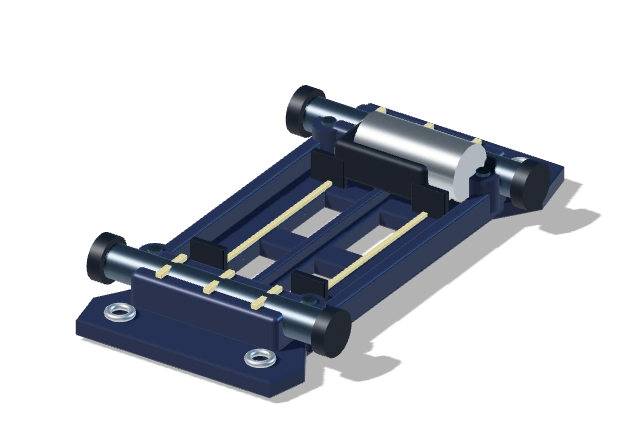
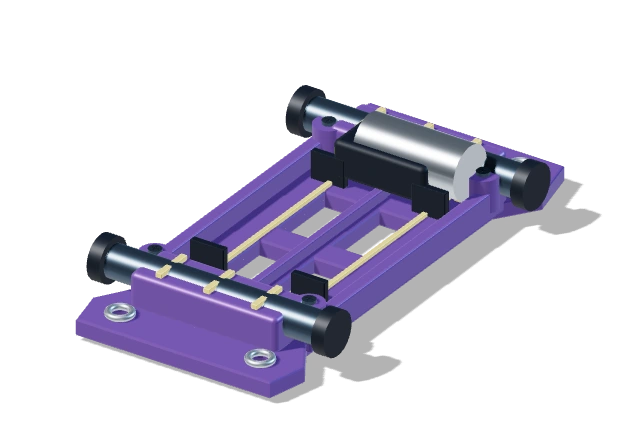
Complete the Sovereign series with top base stats and terrain-specific tuning

diff --git a/src/data/world.ts b/src/data/world.ts
@@ -1,3 +1,4 @@
+import {sovereignPartIds} from './sovereignParts';
 import { starterShop, type ShopStock } from './progression';
 import type { CircuitId } from './circuit';
 
@@ -8,7 +9,7 @@ export interface ModelShop extends ShopStock { id:ShopId; owner:string; circuitI
 export const modelShops:Record<ShopId,ModelShop>={
   akatsuki:{id:'akatsuki',name:'あかつき模型店',maxPartLevel:10,owner:'暁堂 司',circuitId:'forge',stage:6,color:0xb56860,welcome:'緑川の入賞、おめでとう！ ここには怜・岳・斗和・昊也のレジェンド4人も試走に来ている。最上位パーツを22種入荷したぞ。縦ループ、横スパイラル、砂地、坂、ジャンプを制する組み合わせを探そう。勝敗に関係なく、途中で戻らず5回レースの結果まで走れば、天頂決戦・ゼニス・クラウンの出場権を渡す。'},
   yuunagi:{id:'yuunagi',name:'ゆうなぎ模型店',maxPartLevel:6,owner:'夕凪 慎吾',circuitId:'trail',stage:5,color:0x8074a8,welcome:'星空テクニカル杯の入賞、おめでとう！ 新作のリアウイング・スライドダンパー、セラミックローラー、低い二段ローラー、サージモーター、フローティングホイール、低反発タイヤを揃えたよ。ここはスタートとゴールが別の一本道タイムアタック。約172mの高架スパイラル・ジャンプ台・ロングストレートを越え、公式タイム40秒以内で完走すると第4公式大会・緑川グランプリの出場権を授けるよ。何度でもセッティングを変えて挑戦できる。'},
-  atelier:{id:'atelier',name:'星霧模型工房',maxPartLevel:10,exclusiveParts:['motor-sovereign','chassis-sovereign'],owner:'星野 玄一',circuitId:'leaf',stage:1,color:0x77649c,welcome:'ようこそ、星霧模型工房へ。ここは最初から入れる特別な販売専門店。最高額の星皇モーターと星皇シャーシは各25万円、2つで50万円だ。わかばの優勝賞金2500円なら約200勝分。モーターは慣らし不要で摩耗せず、シャーシは駆動・旋回・制振を大幅に強化する。多くのレースで圧倒的に有利になるが、最終公式大会は、速さに加えて旋回と着地の安定も試されるぞ。通常の改造を楽しむ人は、こもれびから挑戦してごらん。'},
+  atelier:{id:'atelier',name:'星霧模型工房',maxPartLevel:10,exclusiveParts:sovereignPartIds,owner:'星野 玄一',circuitId:'leaf',stage:1,color:0x77649c,welcome:'ようこそ、星霧模型工房へ。星皇シリーズは全11種類・13品、各25万円。全品325万円で、ローラー1セットを前中後に共用できる。モーター・電池は消耗なし。出力・軽さ・効率・旋回は最上位だが、硬いスリックは砂地に弱い。悪路タイヤやフレックスシャーシ、比率の違うギアとの混成で、コースに合わせてさらに速い構成を探そう。'},
   wakaba:{id:'wakaba',name:'わかば模型店',maxPartLevel:5,owner:'若松 修一',circuitId:'grove',stage:4,color:0x709250,welcome:'公式杯の入賞、おめでとう。ここは坂・ジャンプ・1周半の高架スパイラルがある店だ。ライバルも上位装備を使うよ。上位のスイフトトルク、K4シャーシ、ハイグリップタイヤと新作ホイールを揃えたよ。4:1ギアと駆動サポートも組み合わせてごらん。ここで優勝すれば、第3公式大会の星空テクニカル杯の出場権がもらえるよ。'},
   komorebi:{...starterShop,id:'komorebi',owner:'小野寺 春夫',circuitId:'leaf',stage:1,color:0x528672,welcome:'いらっしゃい、湊くん。完走賞を貯めてパーツを買い足そう！初優勝すると、全国で活躍する兄弟が訪ねてくるらしいよ。'},
   aozora:{id:'aozora',name:'あおぞら模型店',maxPartLevel:3,owner:'青井 晴彦',circuitId:'wind',stage:2,color:0x497eaf,welcome:'春夫さんから話は聞いているよ。ようこそ、あおぞら模型店へ！連続コーナーでは加速と安定性の両立が大切だ。低重心シャーシや中空シャフト、新しいモーターを試してごらん。'},
@@ -63,7 +64,7 @@ export function venueMessage(venue:TownVenue){
   if(venue.id==='akatsuki')return '緑川グランプリで2位以内に入ると開放。最上位パーツ22種と強豪たちの試走コース。結果まで5回走れば最終大会の出場権。';
   if(venue.id==='yuunagi')return '星空テクニカル杯で3位以内に入ると開放。一本道の高架スパイラルとジャンプ台を40秒以内で完走すると、第4公式大会・緑川グランプリの出場権を獲得できます。';
   if(venue.id==='stadium-10')return '第4公式大会・緑川グランプリ。ゆうなぎ模型店の一本道タイムアタックを40秒以内で完走すると出場権を獲得できます。黒岩と先輩の橘 斗和、モブ2人との一本道決勝。2位以内であかつき模型店が開放、3位以下はゲームオーバーです。';
-  if(venue.id==='atelier')return '最初から入れる特別な販売専門店。星皇モーターと星皇シャーシを各25万円で販売。2つで50万円、わかば優勝約200回分の究極パーツです。';
+  if(venue.id==='atelier')return '最初から入れる特別な販売専門店。星皇シリーズ全11種類・13品を各25万円で販売。最上位の基礎性能と、路面に合わせた混成セッティングを楽しめます。';
   if(venue.id==='stadium-9')return '全4大会の第3公式大会・星空テクニカル杯。若葉公式杯で総合優勝するか、わかば模型店で優勝すると出場できます。連続コーナーを約2分走るコースです。';
   if(venue.id==='wakaba')return '若葉公式杯で総合3位以内に入賞すると入店できます。連続コーナーで長距離のセッティングを磨こう。';
   if(venue.id==='stadium-5')return '若葉公式ダート杯はひなた模型店で1位になると出場できます。森野 陸・黒岩 豪・モブ2人との5台レース。総合3位以内でわかば模型店、総合優勝で第3公式大会への出場権を獲得します。';

diff --git a/src/data/partGuidance.ts b/src/data/partGuidance.ts
@@ -1,9 +1,11 @@
+import {isSovereignPart} from './sovereignParts';
 import {zenithParts} from './zenithParts';
 import type { Part } from './parts';
 export function partGuidance(part:Part):{
 use:string;tradeoff:string}{
  if(part.id.startsWith('motor-mechanic-'))return {use:'メカニックマンからの専用モーター。熟練度の上昇で自動強化され、外している間も成長します。装着中ならレースを終えて戻ったときに反映されます。',tradeoff:'消耗なし・慣らし不要。最高段階はレジェンドを含む熟練度ランキング単独1位で解放。モーター以外のタイヤ・ギア・車体のセッティングも必要です。'};
  const s=part.specs;
+ if(isSovereignPart(part.id))return {use:part.description,tradeoff:part.category==='motor'?'慣らし不要・消耗なし。強い出力に合わせて安定性と接地も整えよう。':part.category==='battery'?'残量は100%固定。出力の高さとコースへの相性は、タイヤ・ギア・車体と合わせて考えよう。':'各25万円。単体の基礎性能は最上位でも、ギア比・砂地の追従・合計制振90%の上限に合わせて他シリーズを混ぜると速くなる場合があります。'};
  if(zenithParts.some(p=>p.id===part.id)){
  const use=part.category==='motor'?(part.id==='motor-tempest'?'あかつきと天頂決戦の高速型。5.2:1ギア・デューンシャーシ・アペックスタイヤで縦ループの力と砂地の接地を補います。':part.id==='motor-titan'?'あかつきと天頂決戦の高トルク型。4:1ギア・エクリプスシャーシ・ハイブリッドタイヤなどで高速も両立できます。':'あかつきと天頂決戦の万能型。4.2:1ギア・ホライゾンシャーシ・ハイブリッドタイヤを軸に、縦横ループ・砂地・着地を両立します。'):part.category==='roller'?'前・中・後へ1セットで設定できます。クラウンスライドのローラーはリヤ欄で選び、速度を残す前中と姿勢を支える後を使い分けます。':part.category==='accessory'?'その他①〜③の異なる種類を組み合わせ、縦横回転後の姿勢・砂地の接地・ジャンプの着地を支えます。スライドのローラーはリヤ欄で選びます。':'あかつきの試走と最長の天頂決戦向け。'+part.description;
  const tradeoff=part.category==='motor'?'新品は約60秒の慣らしが必要。長距離レースでは摩耗も進みます。単品の出力だけでなく、ギア・砂地の追従・着地の制振も整えましょう。':part.category==='battery'?'走行で消耗します。慣らしでは残量は減りません。同じ種類を再購入すると1個の新品へ交換します。':part.category==='accessory'?'同じ種類は1個まで、重複装着できません。重量も加算されるので3枠の配分を考えましょう。':'単品で全難所を解決するものではありません。高速型・トルク型・悪路型の役割と重量を比べ、他のパーツと組み合わせましょう。';
@@ -17,8 +19,6 @@ use:string;tradeoff:string}{
  if(part.id==='wheel-floating')return {use:'スパイラルの内外輪差による抵抗を低減し、回転と再加速を保ちます。',tradeoff:'カーボンフェザーより重くなります。タイヤのグリップや制振は別に整えよう。'};
  if(part.id==='tire-landing')return {use:'舗装のグリップと、ジャンプ着地の跳ねの吸収を両立。スライドダンパーと効果を合わせられます。',tradeoff:'飛距離を増やすタイヤではありません。飛距離不足ならモーターの状態・電池・ギア比も確認。悪路専用ではありません。'};
 
- if(part.id==='motor-sovereign')return {use:'星皇シャーシと組み合わせて圧倒的な加速と速度を得る特別なモーター。新品のまま最高状態で、慣らしも交換も不要です。',tradeoff:'価格は25万円。モーター単体では安定性を強化できません。電池は消耗するため残量を確認しよう。'};
- if(part.id==='chassis-sovereign')return {use:'星皇モーターを支える究極級の土台。低重量・高い駆動効率に加え、旋回とジャンプ着地、悪路の制振を大幅に強化します。',tradeoff:'価格は25万円。2種類を揃えると50万円、わかばの優勝約200回分です。最終公式大会は準備中です。'};
  if(part.id==='motor-turn')return {use:'わかば・星空杯の連続コーナーで、減速後の再加速を強化。4:1ギアと高グリップの足回りを合わせよう。',tradeoff:'出力が高いのでモーター単体の交換ではコースアウトする場合があります。約60秒の慣らしと安定性の強化を忘れずに。'};
  if(part.id==='tire-turn')return {use:'舗装の連続コーナーで横滑りとコースアウトを抑えたいときに。K4シャーシ・スタビライザーと併用できます。',tradeoff:'悪路への追従性はブロックタイヤほど高くありません。ダートでは悪路用へ交換しよう。'};
  if(part.id==='accessory-none')return {use:'その枠の補助パーツを外します。',tradeoff:'軽くなりますが、そのパーツの安定性・制振・駆動補助は失われます。'};

diff --git a/src/game/sovereign.test.ts b/src/game/sovereign.test.ts
@@ -1,0 +1,43 @@
+import {test} from 'node:test';
+import assert from 'node:assert/strict';
+import {parts,categories} from '../data/parts';
+import {sovereignPartIds,sovereignEquipment,isSovereignPart} from '../data/sovereignParts';
+import {equipmentSlots,type Equipment} from '../data/machine';
+import {modelShops} from '../data/world';
+import {isStocked} from '../data/progression';
+import {getCircuitTrack,type CircuitId} from '../data/circuit';
+import {machinePerformance,createDrivingState,startDriving,stepDriving} from './driving';
+import {batteryCharge,motorFactor} from './condition';
+import {useGame} from './store';
+import {snapshotGame,decodeSave} from './saveData';
+import {loadSavedGame} from './autoSave';
+import {partGuidance} from '../data/partGuidance';
+import {searchLibrary} from '../data/library';
+function drive(id:CircuitId,e=sovereignEquipment){const t=getCircuitTrack(id),p=machinePerformance(e,{motorSeconds:60,batterySeconds:0});let d=startDriving(createDrivingState());for(let i=0;i<120*240&&d.status==='running';i++)d=stepDriving(d,p,0,2,t.circuit.surface,t);assert.equal(d.status,'finished',id);return d.time;}
+test('星皇は11カテゴリ・13品、工房専売・各25万円。全装備枠を異なる補助3品と共用ローラーで満たす',()=>{
+ const list=parts.filter(p=>isSovereignPart(p.id));assert.equal(list.length,13);assert.equal(new Set(list.map(p=>p.category)).size,Object.keys(categories).length);assert.equal(new Set(sovereignPartIds).size,13);
+ for(const p of list){assert.equal(p.price,250000);assert.equal(p.level,10);assert.ok(partGuidance(p).use.includes('星皇'));assert.ok(searchLibrary('all','星皇').some(r=>r.id===p.id));for(const shop of Object.values(modelShops))assert.equal(isStocked(p,shop),shop.id==='atelier');}
+ for(const [slot,id] of Object.entries(sovereignEquipment))assert.equal(parts.find(p=>p.id===id)!.category,equipmentSlots[slot as keyof Equipment].category);
+ assert.equal(new Set([sovereignEquipment.accessory,sovereignEquipment.accessory2,sovereignEquipment.accessory3]).size,3);
+});
+test('回転数・トルク・効率・軽量性などの主要性能は各種の最上位。ギア比と悪路追従は選び分ける',()=>{
+ for(const [id,key,better] of [['motor-sovereign','rpm','max'],['motor-sovereign','torque','max'],['chassis-sovereign','efficiency','max'],['chassis-sovereign','stability','max'],['chassis-sovereign','weight','min'],['body-sovereign','drag','min'],['body-sovereign','stability','max'],['body-sovereign','weight','min'],['battery-sovereign','power','max'],['battery-sovereign','weight','min'],['tire-sovereign','grip','max'],['tire-sovereign','weight','min'],['wheel-sovereign','cornerDrag','min'],['roller-sovereign','friction','min'],['roller-sovereign','stability','max'],['shaft-sovereign','weight','min'],['terminal-sovereign','efficiency','max'],['gear-sovereign','weight','min'],['accessory-sovereign-drive','efficiency','max'],['accessory-sovereign-gyro','stability','max'],['accessory-sovereign-damper','damping','max']] as const){
+  const p=parts.find(p=>p.id===id)!,others=parts.filter(r=>r.category===p.category&&!isSovereignPart(r.id)&&r.specs[key]!==undefined).map(r=>r.specs[key]);assert.ok(better==='max'?p.specs[key]>=Math.max(...others):p.specs[key]<=Math.min(...others),`${id}:${key}`);
+ }
+ assert.equal(motorFactor(100000,'motor-sovereign'),1);assert.equal(batteryCharge('battery-sovereign',100000),1);
+});
+test('星皇一式は全コース完走し、悪路タイヤ混成はダートで速く、舗装では星皇スリックが速い',()=>{
+ for(const id of ['leaf','wind','sun','grove','comet','trail','grandprix','forge','zenith'] as const)drive(id);
+ const mixed={...sovereignEquipment,tire:'tire-dunepro'};
+ const dirt=drive('sun'),mixedDirt=drive('sun',mixed),paved=drive('wind'),mixedPaved=drive('wind',mixed);
+ assert.ok(mixedDirt<dirt*.97,`${mixedDirt} < ${dirt}`);assert.ok(paved<mixedPaved*.95,`${paved} < ${mixedPaved}`);
+ // Different ratios still matter even with the strongest lightweight gear.
+ assert.ok(drive('wind',{...sovereignEquipment,gear:'gear-3.5'})<paved);
+});
+test('初期から全品を購入・装着・保存再開でき、所持数と財布・主進行を維持する',async()=>{
+ const original=useGame.getState();try{
+  useGame.setState({...useGame.getInitialState(),location:'town',money:3250000,openingStep:9,tutorialStage:'done'},true);useGame.getState().enterShop('atelier');for(const id of sovereignPartIds)useGame.getState().buy(id);assert.equal(useGame.getState().money,0);
+  for(const [slot,id] of Object.entries(sovereignEquipment))useGame.getState().equip(id,slot as keyof Equipment);assert.deepEqual(useGame.getState().equipment,sovereignEquipment);for(const id of sovereignPartIds)assert.equal(useGame.getState().inventory[id],1);
+  const save=decodeSave({version:1,savedAt:123,game:snapshotGame(useGame.getState())});await loadSavedGame({read:async()=>save,write:async()=>{}});assert.deepEqual(useGame.getState().equipment,sovereignEquipment);assert.equal(useGame.getState().money,0);assert.equal(useGame.getState().legendRaceCompleted,false);assert.equal(useGame.getState().finalQualified,false);
+ }finally{useGame.setState(original,true);}
+});

diff --git a/src/data/sovereignParts.ts b/src/data/sovereignParts.ts
@@ -1,0 +1,22 @@
+import type {Equipment} from './machine';
+import type {Category} from './parts';
+const part=(id:string,category:Category,name:string,description:string,specs:Record<string,number>,performance:string)=>({id,category,name,price:250000,description:`星霧模型工房限定・星皇シリーズ。${description}`,specs,performance});
+export const sovereignParts=[
+ part('motor-sovereign','motor','星皇オーバードライブモーター','最高回転数と最大トルクを両立。慣らし不要・摩耗なし。強い出力を路面へ伝えるには、タイヤとギアの選択も大切。',{rpm:32000,torque:12,weight:17,wear:0},'32,000 rpm / 12.0 mN·m / 17 g / 消耗なし'),
+ part('chassis-sovereign','chassis','星皇ゼロリミットシャーシ','最軽量・最高効率・最高安定の高剛性シャーシ。舗装と立体コースに強いが、深い砂ではデューンの追従性を組み合わせる余地がある。',{weight:13,efficiency:1.3,stability:4.3,damping:.6,roughGrip:1.3,roughResistance:.55,compliance:1.4},'13 g / 駆動効率×1.30 / 安定性×4.30 / 制振60%'),
+ part('battery-sovereign','battery','星皇インフィニットセル','最高出力・最軽量の電池2本。残量は減らず、長距離でも出力を維持する。',{weight:36,power:1.16,endurance:700,consumption:0},'2本36 g / 出力×1.16 / 残量100%固定'),
+ part('gear-sovereign','gear','星皇マイクロドライブ 4:1','最軽量の精密ギア。4:1は高速と駆動力の両立用。急坂は5.2:1、高速区間は3.5:1も試し、モーターと路面に合わせて選ぼう。',{ratio:4,weight:1},'減速比4:1 / 1 g / 比率は万能ではない'),
+ part('tire-sovereign','tire','星皇プラチナ・スリック','最軽量・最高グリップ・舗装抵抗ゼロの硬質スリック。砂では沈みやすく凹凸への追従が弱い。深い砂や砂利は専用タイヤとの混成で速くできる。',{diameter:26,grip:2.05,weight:6,pavedDrag:0,compliance:.55,roughResistance:.9,damping:.04},'径26 mm / グリップ2.05 / 6 g / 硬質・舗装特化'),
+ part('wheel-sovereign','wheel','星皇フローティング・リング','最軽量・最小の旋回抵抗を持つ独立駆動ホイール。タイヤの接地特性は別なので、路面に合わせて組み合わせよう。',{weight:2,diameter:17,cornerDrag:.2},'2 g / リム径17 mm / 旋回抵抗×0.20'),
+ part('roller-sovereign','roller','星皇ジュエル・ガイド','最高の安定性と最小摩擦を両立する軽量ローラー。1セットで前・中・後へ装着できる。',{weight:4,friction:.012,stability:1.45,damping:.12},'摩擦0.012 / 安定性×1.45 / 制振12% / 4 g'),
+ part('shaft-sovereign','shaft','星皇モノクリスタル・シャフト','最軽量の高剛性シャフト。足回りの負担を抑え、他のパーツに重量を配分できる。',{weight:1},'重量1 g'),
+ part('terminal-sovereign','terminal','星皇ゼロロス・ターミナル','最高の伝達効率と最軽量を両立。電池とモーターの出力を損失なく伝える。',{weight:1,efficiency:1},'伝達効率100% / 1 g'),
+ part('accessory-sovereign-drive','accessory','星皇リニア駆動サポート','補助パーツで最高の駆動効率。加速・坂・再発進を支える。その他の異なる星皇補助パーツと併用可能。',{weight:1.5,stability:1.06,efficiency:1.16},'1.5 g / 駆動効率×1.16'),
+ part('accessory-sovereign-gyro','accessory','星皇ベクター・ジャイロ','補助パーツで最高の旋回安定性。高速の切り返しを支える。安定が十分なコースでは外して軽量化する選択もできる。',{weight:3,stability:1.5,efficiency:1,damping:.12},'3 g / 安定性×1.50 / 制振12%'),
+ part('accessory-sovereign-damper','accessory','星皇アクティブ・ダンパー','補助パーツで最高の制振性能。着地と路面振動を抑える。制振は合計90%で頭打ちになるため、構成によっては軽量品やスライドへ交換する方が速い。',{weight:4,stability:1.25,efficiency:1,damping:.7},'4 g / 安定性×1.25 / 制振70%'),
+];
+export const sovereignBodyId='body-sovereign';
+export const sovereignPartIds=[...sovereignParts.map(p=>p.id),sovereignBodyId];
+export const isSovereignPart=(id:string)=>sovereignPartIds.includes(id);
+
+export const sovereignEquipment:Equipment={body:'body-sovereign',chassis:'chassis-sovereign',motor:'motor-sovereign',gear:'gear-sovereign',battery:'battery-sovereign',tire:'tire-sovereign',wheel:'wheel-sovereign',rollerFront:'roller-sovereign',rollerSide:'roller-sovereign',rollerRear:'roller-sovereign',shaft:'shaft-sovereign',terminal:'terminal-sovereign',accessory:'accessory-sovereign-drive',accessory2:'accessory-sovereign-gyro',accessory3:'accessory-sovereign-damper'};

diff --git a/src/data/parts.ts b/src/data/parts.ts
@@ -1,3 +1,4 @@
+import {sovereignParts} from './sovereignParts';
 import {mechanicMotorParts} from './mechanicMotor';
 import {zenithParts} from './zenithParts';
 import { partLevels } from './progression';
@@ -7,6 +8,7 @@ export const categories: Record<Category, string> = { body:'ボディ', chassis:
 export interface Part { id: string; level:number; category: Category; name: string; price: number; description: string; specs: Record<string, number>; performance: string }
 type PartDefinition=Omit<Part,'level'>;
 const definitions: PartDefinition[] = [
+  ...sovereignParts,
   ...mechanicMotorParts,
   ...zenithParts,
   {id:'accessory-slide-rear',category:'accessory',name:'リアウイング・スライドダンパー',price:2600,description:'ゆうなぎの新作。ウイング下の左右スライドステーへリヤローラーを取り付ける補助ユニット。横方向の衝撃と着地の揺れを逃がす。ローラーはリヤ欄で別に選択する。',specs:{weight:5,stability:1.2,efficiency:1,damping:.38,cornerDrag:.92},performance:'5 g / 安定性 ×1.20 / 制振38% / 旋回抵抗 ×0.92'},
@@ -16,8 +18,6 @@ const definitions: PartDefinition[] = [
   {id:'wheel-floating',category:'wheel',name:'フローティング・ワンウェイ6',price:2100,description:'ゆうなぎの新作。内外輪の回転差を逃がす軽量フローティングハブ。スパイラルでの回転抵抗を低減し、立ち上がりにも強い。',specs:{weight:4,diameter:17,cornerDrag:.46},performance:'4本 4 g / リム径17 mm / コーナー抵抗 ×0.46'},
   {id:'tire-landing',category:'tire',name:'リバウンドレス・ローハイトタイヤ',price:1700,description:'ゆうなぎの新作。舗装グリップを保ちながら、低反発の素材でジャンプ着地の跳ねを吸収。スライドダンパーと併用できる。悪路用ではない。',specs:{diameter:26,grip:1.45,weight:8,damping:.14},performance:'径26 mm / グリップ1.45 / 8 g / 制振14%'},
 
-  {id:'motor-sovereign',category:'motor',name:'星皇オーバードライブモーター',price:250000,description:'星霧模型工房限定。各25万円の究極級。高回転と圧倒的なトルクを両立し、慣らし不要・摩耗なし。星皇シャーシと組み合わせ、多くのレースを圧倒する。',specs:{rpm:22000,torque:4.5,weight:18,wear:0},performance:'22,000 rpm / 4.50 mN·m / 18 g / 慣らし不要・摩耗なし'},
-  {id:'chassis-sovereign',category:'chassis',name:'星皇ゼロリミットシャーシ',price:250000,description:'星霧模型工房限定。各25万円の究極級。軽量で高効率、圧倒的な旋回安定性と制振性能。星皇モーターの力を支え、舗装・悪路・立体コースに対応する。',specs:{weight:14,efficiency:1.2,stability:4.2,damping:0.85,roughGrip:1.8,roughResistance:0.35,compliance:2.1},performance:'14 g / 駆動効率 ×1.20 / 安定性 ×4.20 / 制振85% / 悪路接地 ×1.80'},
   {id:'motor-turn',category:'motor',name:'スイフトトルクモーター',price:1800,description:'わかばの連続コーナー向け上位型。回転数を上げすぎず、立ち上がりの力を強化。低重心シャーシとグリップタイヤを合わせよう。',specs:{rpm:16000,torque:1.65,weight:20},performance:'16,000 rpm / 1.65 mN·m / 20 g'},
   {id:'chassis-turn',category:'chassis',name:'K4 テクニカルローダウン',price:1900,description:'K2より軽く、低重心と高剛性を両立した上位シャーシ。連続コーナーで姿勢を保ち、駆動ロスも抑える。',specs:{weight:20,efficiency:1.03,stability:1.2},performance:'20 g / 駆動効率 ×1.03 / 安定性 ×1.20'},
   {id:'tire-turn',category:'tire',name:'ハイグリップ・ソフトスポンジ',price:1100,description:'スポンジタイヤを強化した舗装用。軽さを残しながら高いグリップで連続コーナーを支える。砂地専用タイヤではない。',specs:{diameter:26,grip:1.35,weight:8},performance:'径26 mm / グリップ1.35 / 8 g'},

diff --git a/src/game/ShopScene.ts b/src/game/ShopScene.ts
@@ -531,7 +531,7 @@ export class ShopScene extends Phaser.Scene {
       if(visitor.speaker==='佐伯 匠'){visitor.label='佐伯 匠（レース相談）';visitor.text='装備と前回のレースを見て、勝つための相談に乗るよ。';}
       else visitor.text+=' 負けた理由や、どのパーツを替えるとよいかは、整備役の佐伯 匠に相談してね。';
     }
-    if(shop.id==='atelier'){for(const visitor of visitors)visitor.text='星皇のモーターとシャーシは各25万円。2つで50万円、わかば優勝約200回分のごほうびだよ。レースはほかの模型店で挑戦してね。';for(const target of targets)if(target.speaker===cast.rival.name)target.text='ここは最初から入れる特別な工房。究極の2パーツはとても高いけど、2つ揃えると多くのコースで圧倒的な強さになるんだ。';}
+    if(shop.id==='atelier'){for(const visitor of visitors)visitor.text='星皇シリーズは全種類そろっているよ。各25万円、13品で325万円。砂地では悪路タイヤや追従するシャーシを混ぜると、もっと速くできるんだ。レースはほかの模型店で挑戦してね。';for(const target of targets)if(target.speaker===cast.rival.name)target.text='ここは最初から入れる特別な工房。星皇は全種類にある最上位シリーズ。硬いスリックと悪路タイヤ、ギア比の違いなど、得意な路面は組み合わせで変わるよ。';}
     return [...targets,...visitors];
   }
   private drawTimeBoard(){
@@ -561,7 +561,7 @@ export class ShopScene extends Phaser.Scene {
       else if(target.kind==='official-speed'||target.kind==='official-dirt'||target.kind==='official-technical'||target.kind==='official-final'||target.kind==='official-zenith')useGame.getState().openOfficialRace(target.kind==='official-zenith'?'zenith':target.kind==='official-final'?'final':target.kind==='official-technical'?'technical':target.kind==='official-speed'?'speed':'dirt');
       else if(target.kind==='official-reception'||this.isOfficial&&target.speaker==='大会受付係')useGame.getState().openOfficialRace();
       else if(target.speaker==='森野 陸'){if(this.isOfficial)useGame.getState().talk(target.speaker,target.text);else useGame.getState().openOfficialRace();}
-      else if(useGame.getState().location==='atelier'&&target.kind==='track')useGame.getState().talk('星霧模型工房','ここは販売専門店です。モーターとシャーシは店主から購入できます。レースはほかの模型店で楽しんでね。');
+      else if(useGame.getState().location==='atelier'&&target.kind==='track')useGame.getState().talk('星霧模型工房','ここは販売専門店です。星皇シリーズの全種類を店主から購入できます。レースはほかの模型店で楽しんでね。');
       else if(target.speaker==='佐伯 匠'){
         const state=useGame.getState();
         startAdviceConversation({shopId:currentShop(state.location).id,equipment:state.equipment,inventory:state.inventory,money:state.money,...equippedCondition(state.equipment,state.units,state.selectedUnits),review:state.lastRaceReview,motorAges:Object.fromEntries(Object.entries(state.units).map(([id,list])=>[id,list[0]?.seconds??0])),batteryAges:Object.fromEntries(Object.entries(state.units).map(([id,list])=>[id,list[0]?.seconds??0]))});

diff --git a/src/game/MachineModel.ts b/src/game/MachineModel.ts
@@ -65,7 +65,7 @@ export function buildMachineModel(racerColor:number,equipment:Equipment,appearan
   const design=isMob?{...original,shape:'kei' as const,silhouette:undefined,width:.056,cabinHeight:.042,cabinFront:.041,cabinRear:-.092}:original;
   // 3Dプレビューはボディ固有色、レース中はレーサーごとの塗色を使う。
   const isStarter=design.silhouette==='starter-wedge',isChampion=design.silhouette==='champion-aero',isKazami=design.id==='body-legend-flow',isHino=design.id==='body-legend-wedge',isTowa=design.id==='body-legend-towa',isKoya=design.id==='body-legend-muscle';
-  const color=bodyPaint??(isChampion?Number.parseInt(design.color.slice(1),16):racerColor);
+  const color=bodyPaint??(isChampion||design.id==='body-sovereign'?Number.parseInt(design.color.slice(1),16):racerColor);
   const look=(id:string)=>partAppearances[id]??{color:'#8395a3',accent:'#dbe4e8',detail:0,mark:''};
   const hex=(value:string)=>Number.parseInt(value.replace('#',''),16);
   const partMaterial=(id:string,shininess=55)=>new THREE.MeshPhongMaterial({color:hex(look(id).color),shininess});
@@ -75,7 +75,7 @@ export function buildMachineModel(racerColor:number,equipment:Equipment,appearan
   const metal=new THREE.MeshStandardMaterial({color:0xb9c4cb,metalness:.85,roughness:.25});
   const darkRubber=new THREE.MeshStandardMaterial({color:0x171c20,roughness:.91});
   const frame=isTowa?new THREE.MeshStandardMaterial({color:0x1e305d,roughness:.5}):isChampion?new THREE.MeshStandardMaterial({color:0xe3e4de,roughness:.55}):isKoya||isKazami||isHino||isKuroiwa?new THREE.MeshStandardMaterial({color:0x1d2328,roughness:.6}):partMaterial(equipment.chassis,35),frameAccent=isTowa?new THREE.MeshStandardMaterial({color:0x2b426d,roughness:.5}):isChampion?new THREE.MeshStandardMaterial({color:0xbec4c2,roughness:.5}):isKoya||isKazami||isHino||isKuroiwa?new THREE.MeshStandardMaterial({color:0x343c42,roughness:.55}):partAccent(equipment.chassis,55);
-  const accent=new THREE.MeshPhongMaterial({color:0xf4eedc,shininess:65});
+  const accent=new THREE.MeshPhongMaterial({color:design.id==='body-sovereign'?0xf5d87d:0xf4eedc,shininess:65});
   const add=(geometry:THREE.BufferGeometry,material:THREE.Material,x:number,y:number,z:number)=>{
     const mesh=new THREE.Mesh(geometry,material);mesh.position.set(x,y,z);car.add(mesh);return mesh;
   };

diff --git a/src/data/bodies.ts b/src/data/bodies.ts
@@ -25,5 +25,6 @@ export const bodies:BodyDesign[]=[
   {id:'body-legend-wedge',name:'バースト・ヴェローチェ',grade:10,price:0,shape:'coupe',silhouette:'wedge',className:'展示専用ウェッジ',weight:18,drag:.74,cornering:1.12,roughGrip:.62,roughResistance:1.42,width:.069,cabinHeight:.014,cabinFront:.025,cabinRear:-.055,color:'#f1f1e9',description:'火野 岳の専用マシン。白い鋭角センターと大型ウイング、赤いフェンダーに黒いフレア、金色のノーズを持つ。赤タイヤと金色ホイールの専用塗装。'},
   {id:'body-legend-towa',name:'銀嵐フェンサー',grade:10,price:0,shape:'prototype',className:'レジェンド専用シルバーカウル',weight:11,drag:.66,cornering:1.2,roughGrip:.4,roughResistance:1.9,width:.078,cabinHeight:.017,cabinFront:.018,cabinRear:-.045,color:'#bdc7ce',description:'橘 斗和の専用マシン。銀色の三分割ノーズ、黒いキャノピー、4つの金色の吸気口、左右の金属パイプ、赤いライトと白いホイール。'},
   {id:'body-legend-muscle',name:'ランブラー・ツインR',grade:10,price:0,shape:'gt',silhouette:'muscle',className:'レジェンド専用重装FM風',weight:16,drag:.98,cornering:1.11,roughGrip:1.45,roughResistance:.48,width:.068,cabinHeight:.029,cabinFront:.028,cabinRear:-.036,color:'#303941',description:'山城 昊也の専用マシン。黒銀の幅広カウル、露出した前部駆動カバー、青いキャノピーとライン、黄色いライト、緑色のホイール。'},
+ {id:'body-sovereign',name:'星皇アストラル・クラウン',grade:10,price:250000,shape:'prototype',className:'星皇最上位プロト',weight:8,drag:.55,cornering:1.65,roughGrip:.75,roughResistance:.95,width:.075,cabinHeight:.017,cabinFront:.025,cabinRear:-.065,color:'#7456a3',description:'最軽量・最小空気抵抗・最高旋回性能の星皇ボディ。紫と金を基調に低く構えた舗装向けカウル。砂地での接地は重装FMや悪路ボディに譲るため、タイヤ・シャーシの追従性と合わせて選ぶ。'},
 ];
 export function bodyDesign(id:string):BodyDesign{return bodies.find(b=>b.id===id)??bodies[0];}

diff --git a/src/game/raceAdvice.ts b/src/game/raceAdvice.ts
@@ -39,7 +39,7 @@ function trial(equipment:Equipment,condition:MachineCondition,circuitId:CircuitI
   return driving.status==='finished'?driving.time:Infinity;
 }
 export function raceAdvice(state:RaceAdviceContext){
-  if(state.shopId==='atelier')return '星霧模型工房は究極パーツの販売専門店。星皇モーターと星皇シャーシは各250000円、2つで500000円です。わかば優勝2500円なら約200勝分。モーターは慣らし不要・摩耗なし。2つの組み合わせは加速・旋回・制振を大幅に強化します。電池は消耗するので残量を確認し、ほかの模型店でレースを楽しもう。';
+  if(state.shopId==='atelier')return '星霧模型工房は星皇シリーズ全11種類・13品の販売専門店。各250000円、全品3250000円です。モーターとシャーシの2品は500000円。基礎性能は最上位ですが、深い砂はデューンタイヤ、凹凸はフレックスシャーシ、急坂は高トルクギアなど、専門品を混ぜるとさらに速くできる余地があります。星皇モーター・電池は消耗なし。制振は合計90%が上限なので、十分ならダンパーを軽量品やスライドへ替える選択もあります。他の模型店で試走してみよう。';
   const shop=modelShops[state.shopId],lines=['レース相談は僕に任せて。'];
   if(state.review?.circuitId===shop.circuitId)lines.push(state.review.text);
   else lines.push('この店のレース記録はまだないね。今の装備で改善できる点を見てみよう。');

diff --git a/src/data/progression.ts b/src/data/progression.ts
@@ -1,9 +1,11 @@
+import {sovereignPartIds,isSovereignPart} from './sovereignParts';
 import {mechanicMotorStages} from './mechanicMotor';
 import {zenithParts} from './zenithParts';
 export const MAX_PART_LEVEL=10;
 import { bodies } from './bodies';
 // レベルは単純な速度倍率ではなく、入手段階の目安。
 export const partLevels:Record<string,number>={
+ ...Object.fromEntries(sovereignPartIds.map(id=>[id,10])),
  ...Object.fromEntries(mechanicMotorStages.map(stage=>[stage.id,stage.level])),
   ...Object.fromEntries(zenithParts.map(p=>[p.id,9])),
   'accessory-slide-rear':6,'roller-ceramic':6,'roller-lowdouble':6,'motor-surge':6,'wheel-floating':6,'tire-landing':6,
@@ -27,6 +29,6 @@ export interface ShopStock { name:string; maxPartLevel:number;exclusiveParts?:re
 export const starterShop:ShopStock={name:'こもれび模型店',maxPartLevel:2};
 export function isStocked(part:{id:string;level:number},shop:ShopStock=starterShop){
   if(shop.exclusiveParts)return shop.exclusiveParts.includes(part.id);
-  if(part.id==='motor-sovereign'||part.id==='chassis-sovereign')return false;
+  if(isSovereignPart(part.id))return false;
   return !part.id.startsWith('motor-mechanic-')&&!part.id.startsWith('body-legend-')&&part.id!=='body-entry'&&part.id!=='body-champion'&&part.id!=='accessory-none'&&part.id!=='battery-recharge'&&part.id!=='motor-rescue'&&part.level>=1&&part.level<=Math.min(MAX_PART_LEVEL,shop.maxPartLevel);
 }

diff --git a/src/game/premiumShop.test.ts b/src/game/premiumShop.test.ts
@@ -1,3 +1,4 @@
+import {sovereignPartIds} from '../data/sovereignParts';
 import {test} from 'node:test';
 import assert from 'node:assert/strict';
 import {useGame} from './store';
@@ -11,11 +12,11 @@ import {loadSavedGame} from './autoSave';
 import {starterEquipment} from '../data/machine';
 import {createRaceState,startRace,stepRace,launchPlayer,rankRacers,type RaceChallenge} from './race';
 const ids=['motor-sovereign','chassis-sovereign'];
-test('最高額2部品は特別店だけで販売し、セット価格はわかば優勝200回分',()=>{
+test('星皇13品は特別店だけで販売し、従来2品の価格はわかば優勝200回分',()=>{
  const list=parts.filter(p=>ids.includes(p.id));assert.equal(list.length,2);
  assert.equal(list.reduce((n,p)=>n+p.price,0),prizesForCircuit('grove')[0]*200);
  for(const p of list){assert.equal(p.price,Math.max(...parts.map(p=>p.price)));for(const shop of Object.values(modelShops))assert.equal(isStocked(p,shop),shop.id==='atelier');}
- assert.deepEqual(parts.filter(p=>isStocked(p,modelShops.atelier)).map(p=>p.id),ids);
+ assert.deepEqual(parts.filter(p=>isStocked(p,modelShops.atelier)).map(p=>p.id),sovereignPartIds);
  assert.equal(purchase({money:249999,inventory:{}},ids[0],modelShops.atelier).success,false);
  assert.equal(purchase({money:250000,inventory:{}},ids[0],modelShops.atelier).success,true);
 });
